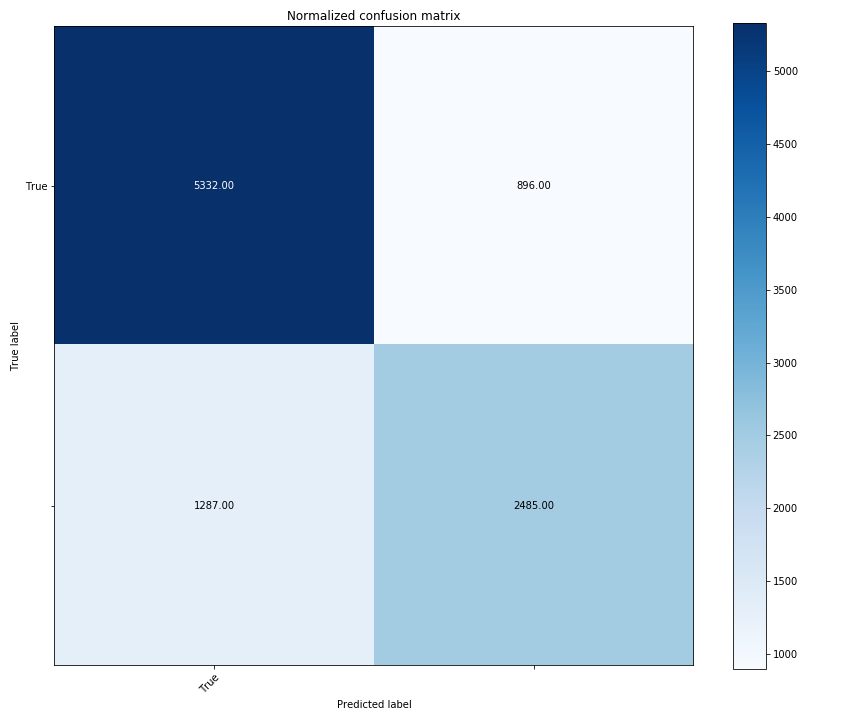
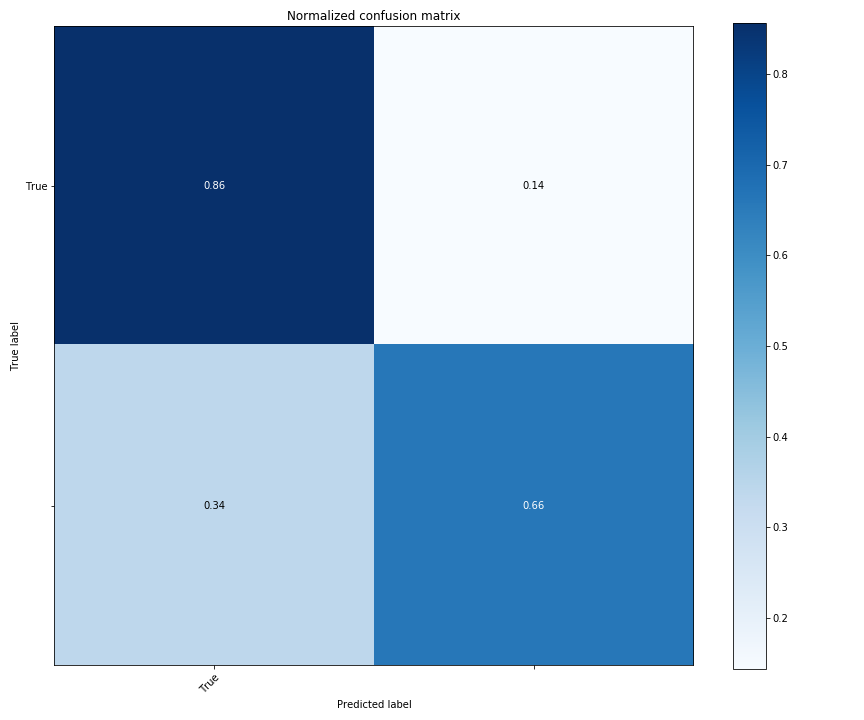
made matrix show normalized data

diff --git a/src/final_model.py b/src/final_model.py
@@ -65,11 +65,18 @@ def plot_confusion_matrix(y_true, y_pred,
     cm = confusion_matrix(y_true, y_pred)
     # Only use the labels that appear in the data
     classes = classes[unique_labels(y_true, y_pred)]
+    if normalize:
+        cm = cm.astype('float') / cm.sum(axis=1)[:, np.newaxis]
+        print("Normalized confusion matrix")
+    else:
+        print('Confusion matrix, without normalization')
+
+    print(cm)
 
     fig, ax = plt.subplots(figsize=(12,10))
     im = ax.imshow(cm, interpolation='nearest', cmap=cmap)
     ax.figure.colorbar(im, ax=ax)
-    # We want to show all ticks...
+    # We want to show all ticks...pred = model.predict(X_test)
     ax.set(xticks=np.arange(cm.shape[1]),
            yticks=np.arange(cm.shape[0]),
            # ... and label them with the respective list entries

diff --git a/src/gradient_boost.py b/src/gradient_boost.py
@@ -147,7 +147,7 @@ pred = model.predict(X_test)
 #print(grid_search(X_train,y_train,model))
 graph()
 #print(cmatrix(y_test,pred))
-#plot_confusion_matrix(y_test,pred)
+plot_confusion_matrix(y_test,pred)
 #print('Precision:',prec(y_test,pred))
 #print('Recall:',rec(y_test,pred))
 #print('Accuracy:',acc(y_test,pred))
